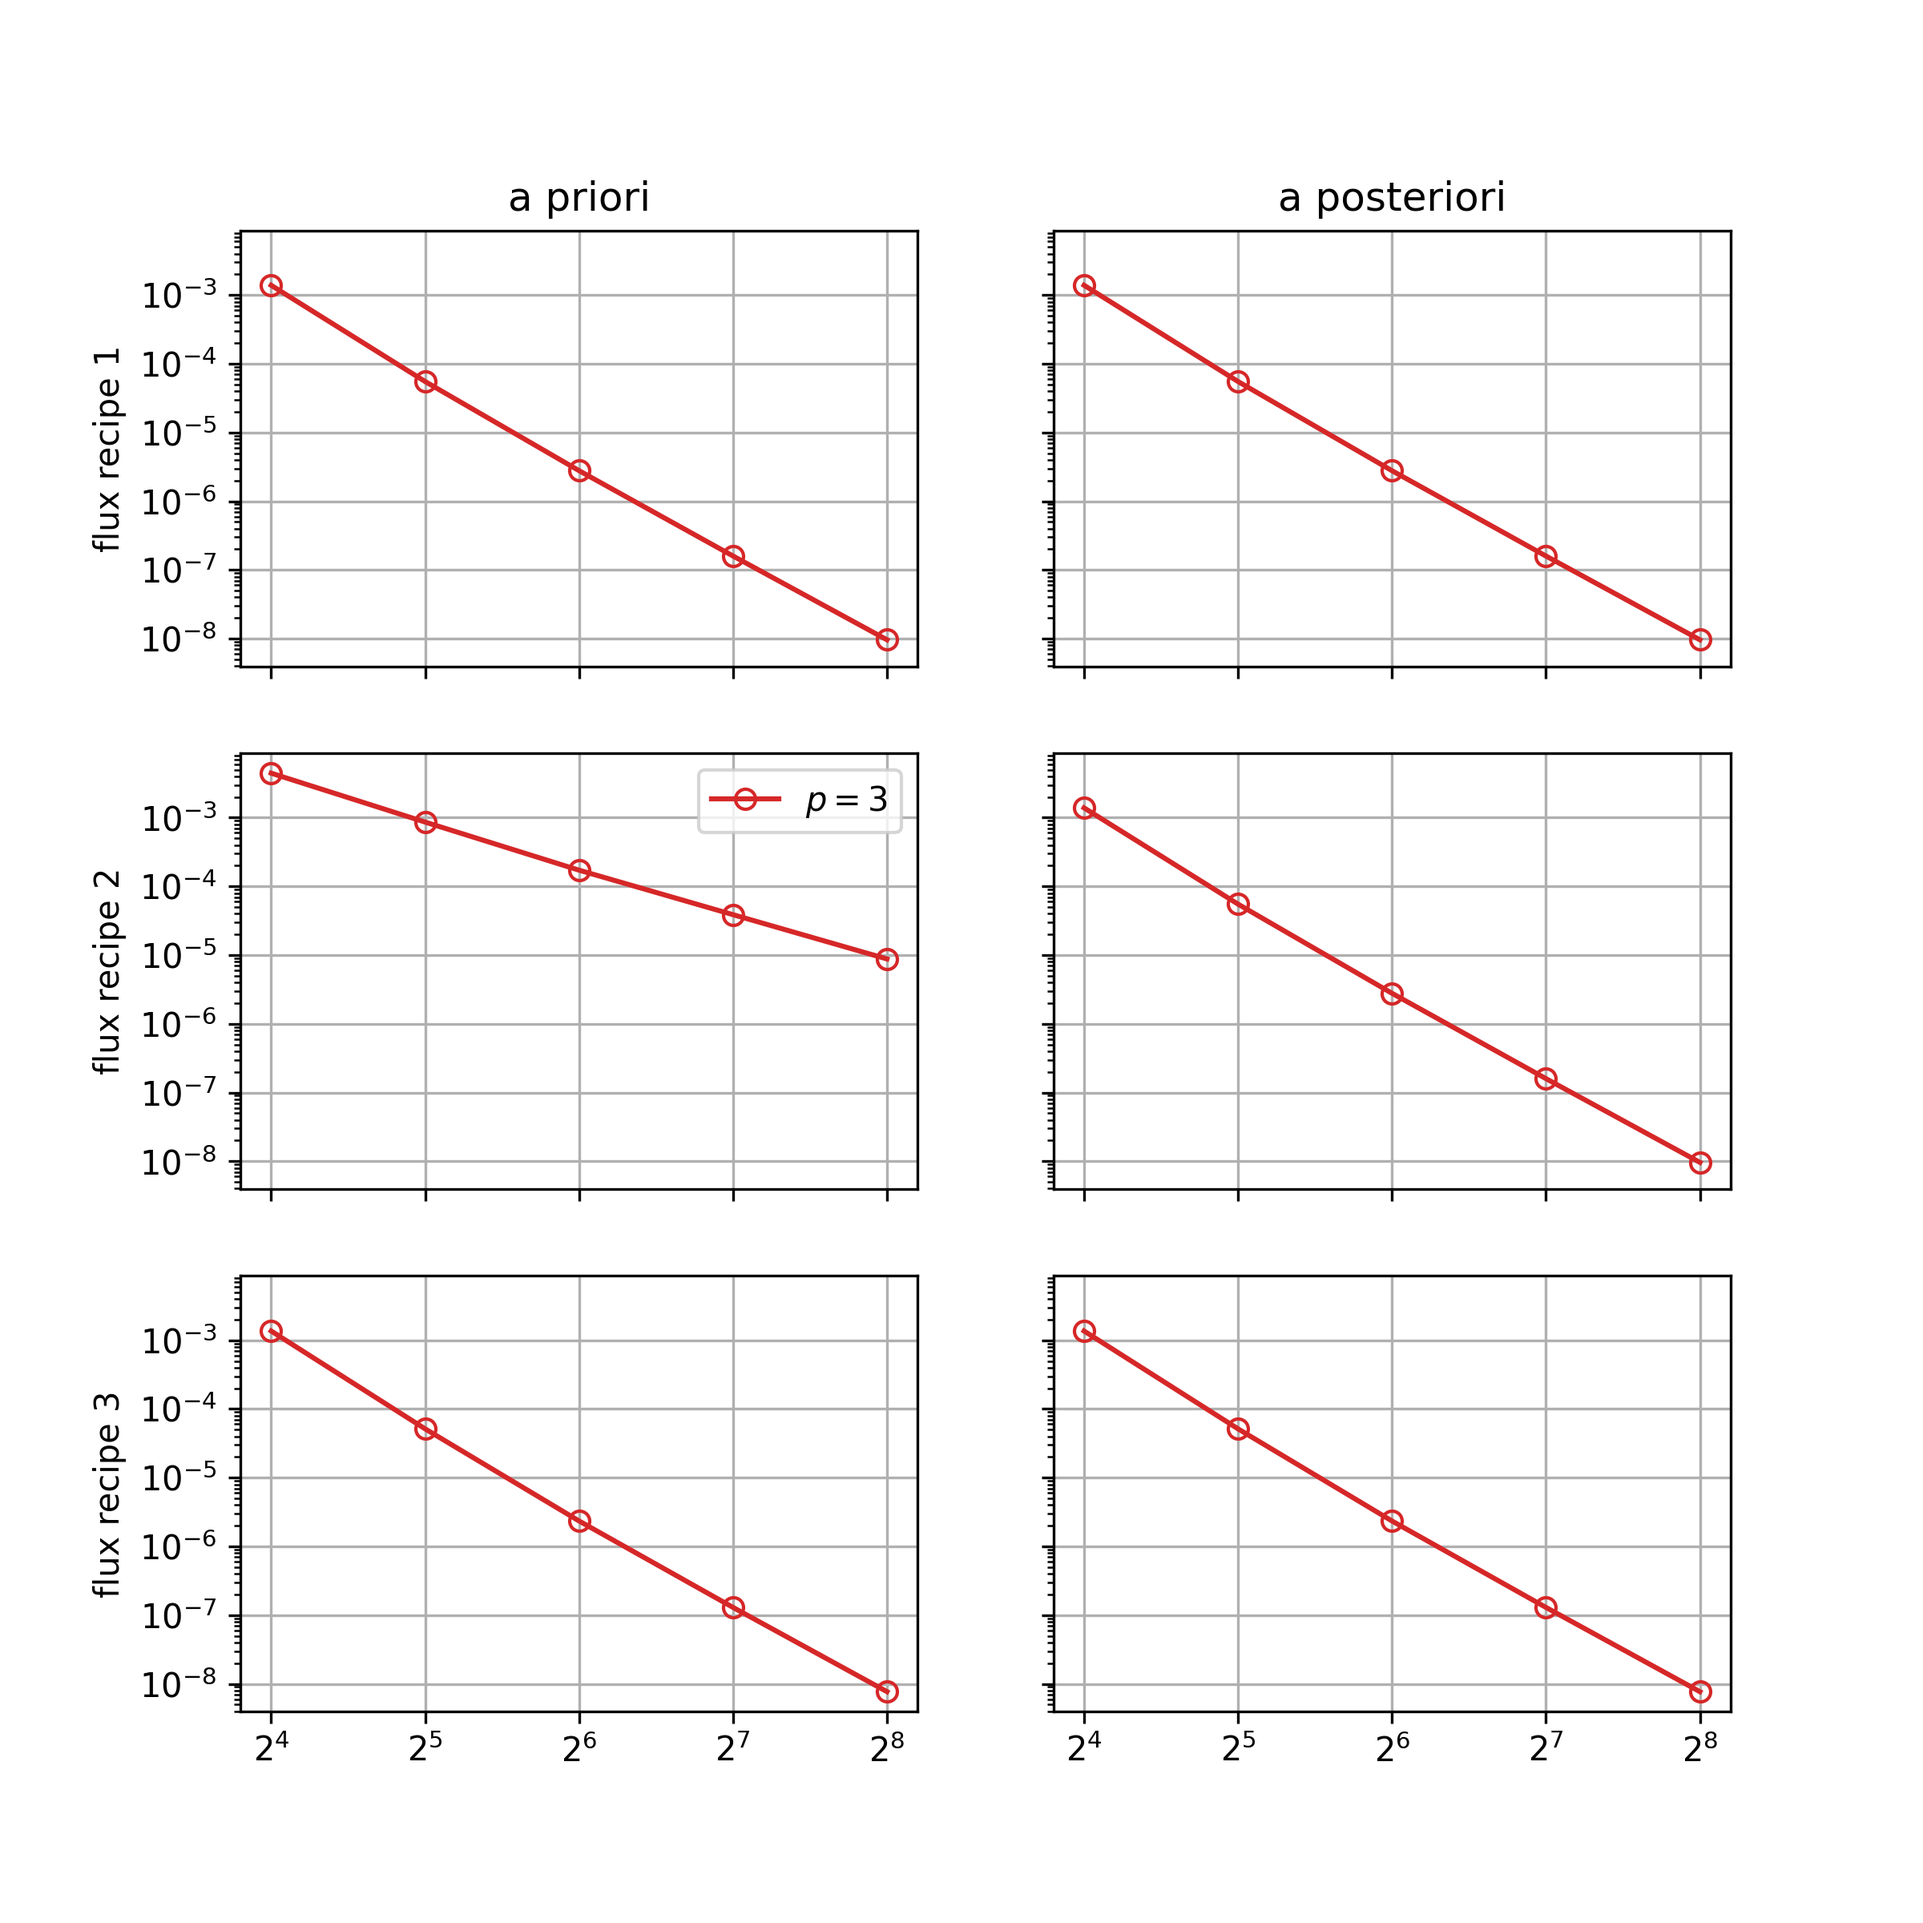
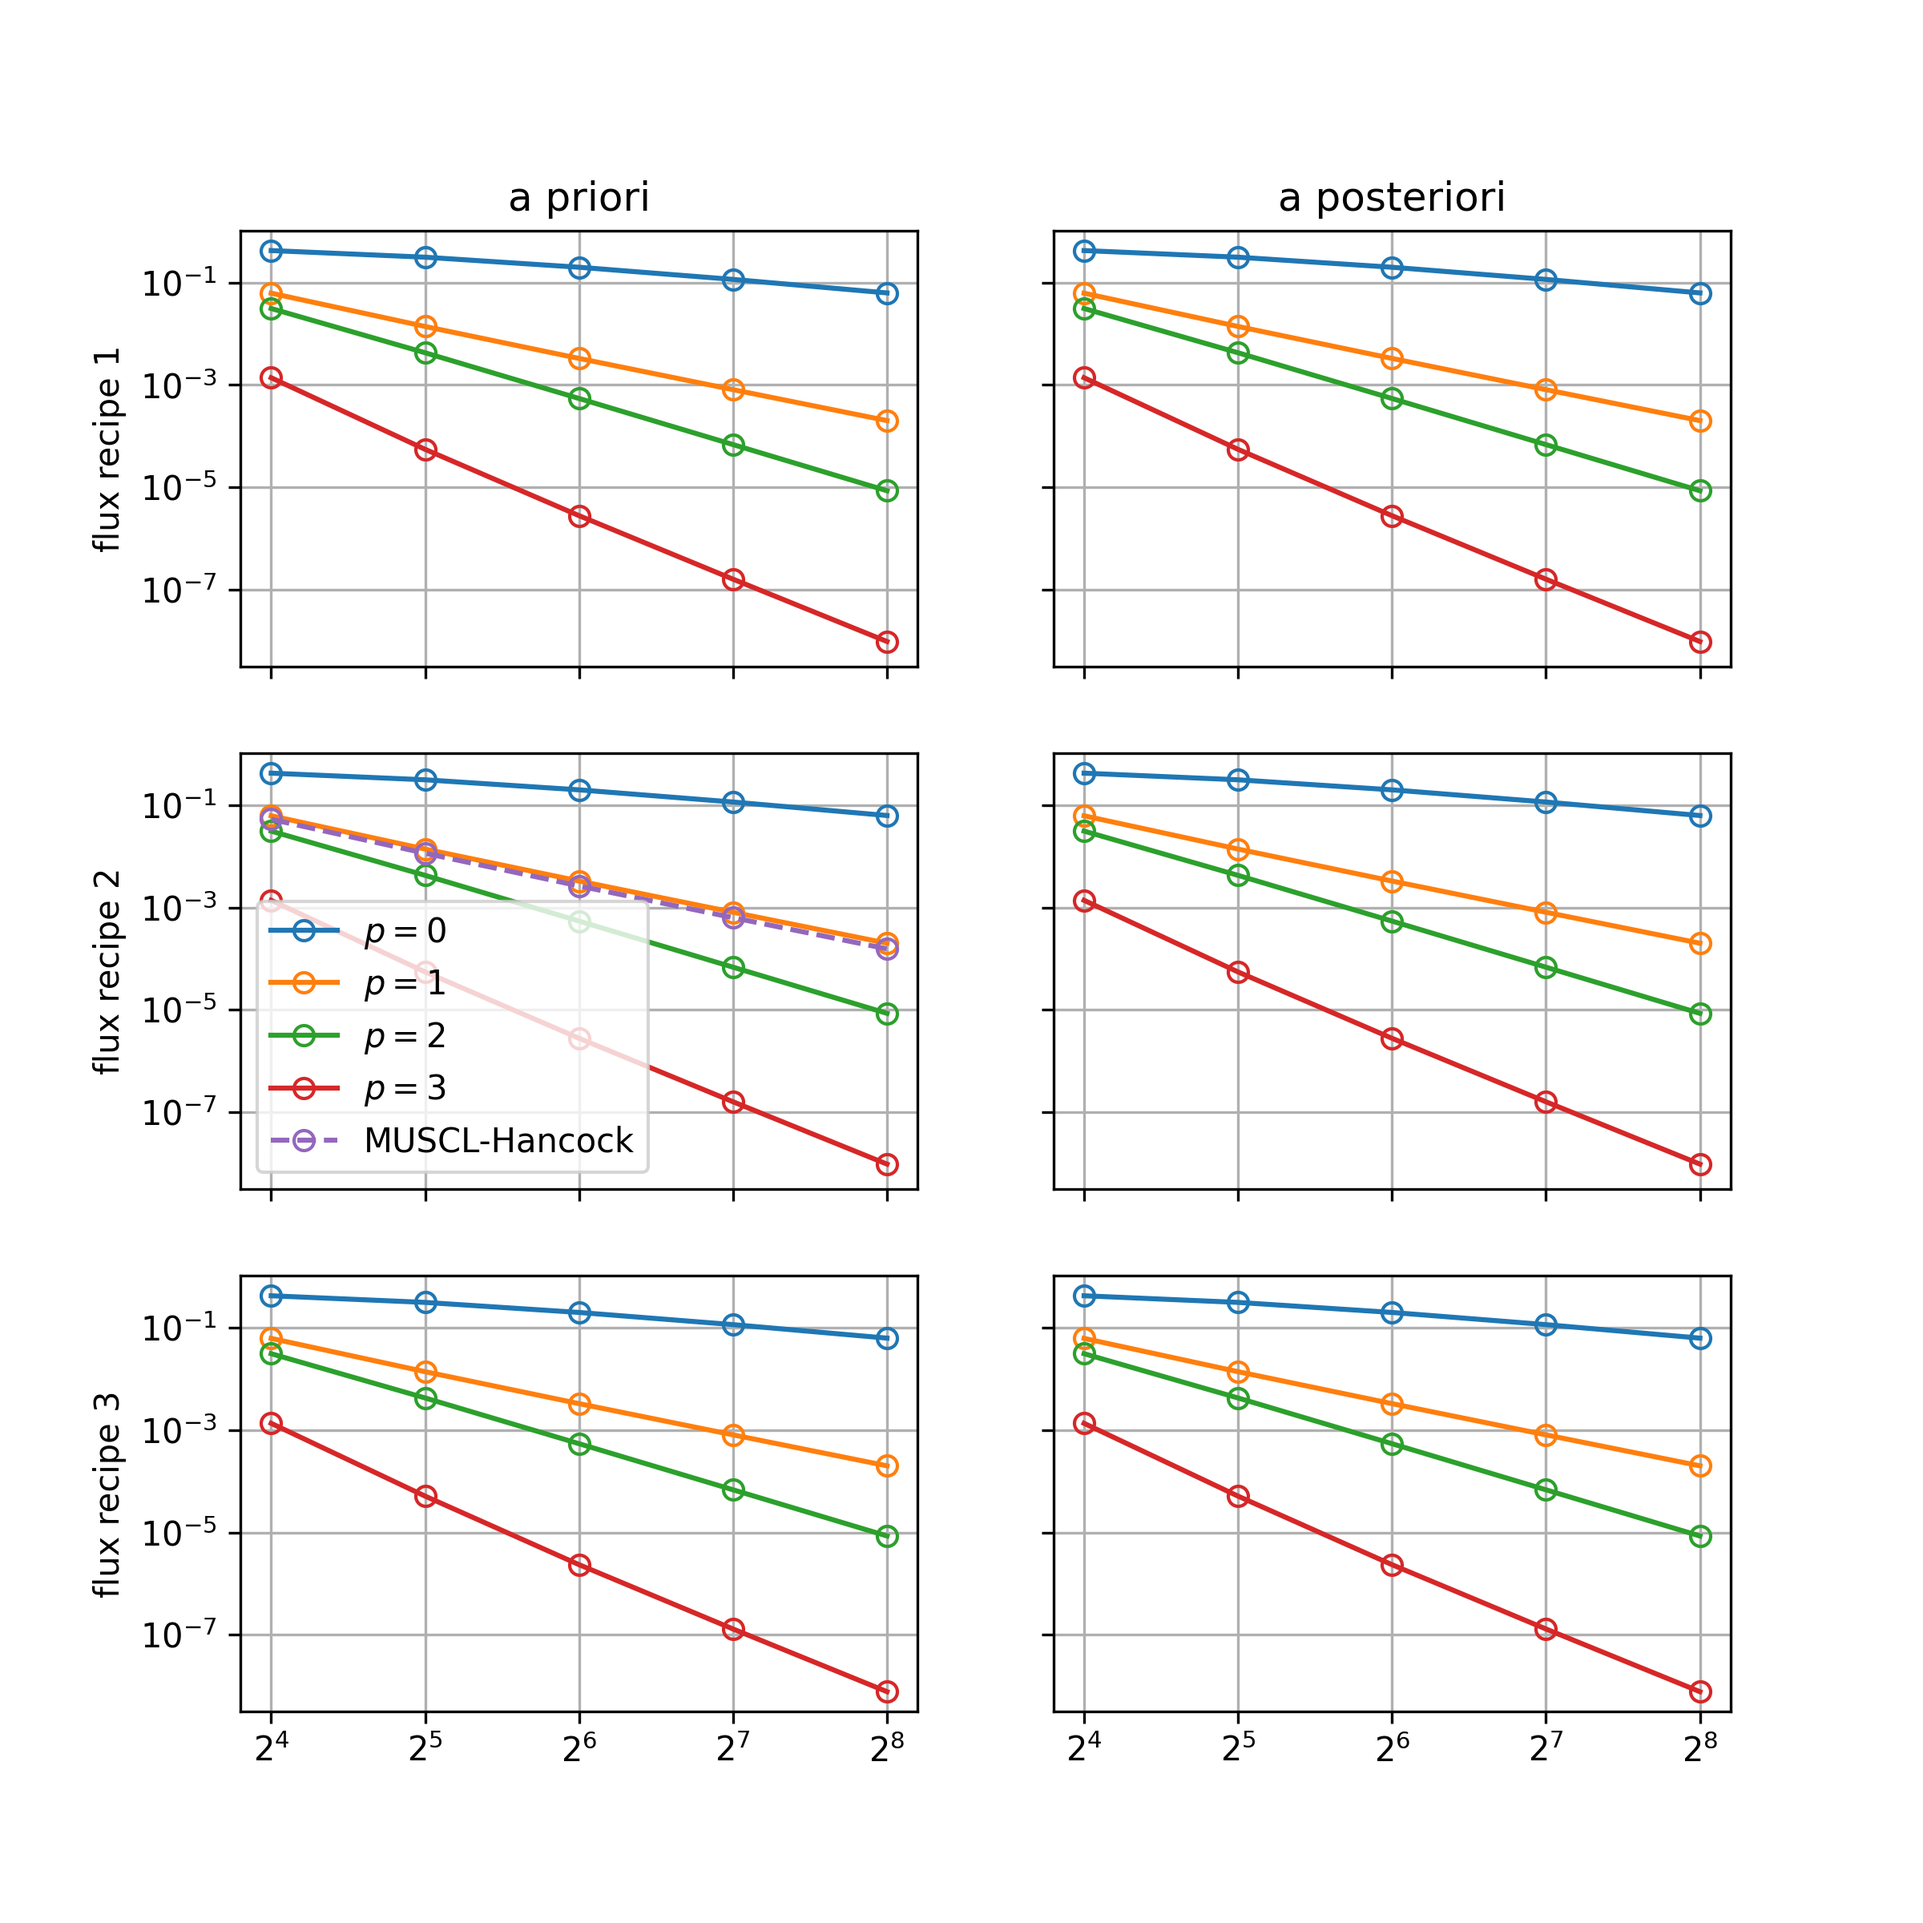
fix: syntax error (if MOOD vs if self.MOOD)

diff --git a/superfv/finite_volume_solver.py b/superfv/finite_volume_solver.py
@@ -461,11 +461,11 @@ class FiniteVolumeSolver(ExplicitODESolver, ABC):
             self._init_unlimited_scheme(p, flux_recipe, GL, lazy_primitives)
 
         # init a posteriori scheme
-        if MOOD:
+        self.MOOD = MOOD
+        if self.MOOD:
             if not ZS:
                 self._init_PAD(PAD)
             self._init_MOOD(
-                MOOD,
                 cascade,
                 MUSCL_limiter,
                 max_MOOD_iters,
@@ -548,7 +548,6 @@ class FiniteVolumeSolver(ExplicitODESolver, ABC):
 
     def _init_MOOD(
         self,
-        MOOD: bool,
         cascade: Literal["first-order", "muscl", "full"],
         MUSCL_limiter: Literal["minmod", "moncen"],
         max_MOOD_iters: int,
@@ -561,9 +560,6 @@ class FiniteVolumeSolver(ExplicitODESolver, ABC):
         global_dmp: bool,
         include_corners: bool,
     ):
-        if not MOOD:
-            return
-
         base_scheme = self.base_scheme
         if not isinstance(base_scheme, polyInterpolationScheme):
             raise ValueError(
@@ -627,7 +623,6 @@ class FiniteVolumeSolver(ExplicitODESolver, ABC):
             include_corners=include_corners,
         )
         self.MOOD_state = MOODState(config=MOOD_config)
-        self.MOOD = True
 
     def _init_PAD(
         self, PAD: Optional[Dict[str, Tuple[Optional[float], Optional[float]]]]
@@ -676,7 +671,7 @@ class FiniteVolumeSolver(ExplicitODESolver, ABC):
             limiting_cost = 0
             if isinstance(bs.limiter_config, ZhangShuConfig):
                 limiting_cost = 3 if bs.limiter_config.SED else 1
-            if MOOD:
+            if self.MOOD:
                 limiting_cost = 3 if self.MOOD_state.config.SED else 1
 
             flux_integral_cost = s if len(self.active_dims) > 1 else 0

diff --git a/benchmarks/advection_error_convergence/EulerSolver/__main__.py b/benchmarks/advection_error_convergence/EulerSolver/__main__.py
@@ -12,9 +12,9 @@ from superfv.tools.norms import linf_norm as norm
 OUTPUT_NAME = "benchmarks/advection_error_convergence/EulerSolver/" + "plot.png"
 DIMS = "x"
 N_LIST = [16, 32, 64, 128, 256]
-P_LIST = [3]
+P_LIST = [0, 1, 2, 3]
 MUSCL_CONFIG = dict(MUSCL=True, MUSCL_limiter="moncen", SED=True)
-APRIORI_CONFIG = dict(ZS=True, adaptive_dt=False, SED=True, lazy_primitives=False)
+APRIORI_CONFIG = dict(ZS=True, adaptive_dt=False, lazy_primitives=False, SED=True)
 APOSTERIORI_CONFIG = dict(
     MOOD=True,
     cascade="first-order",
